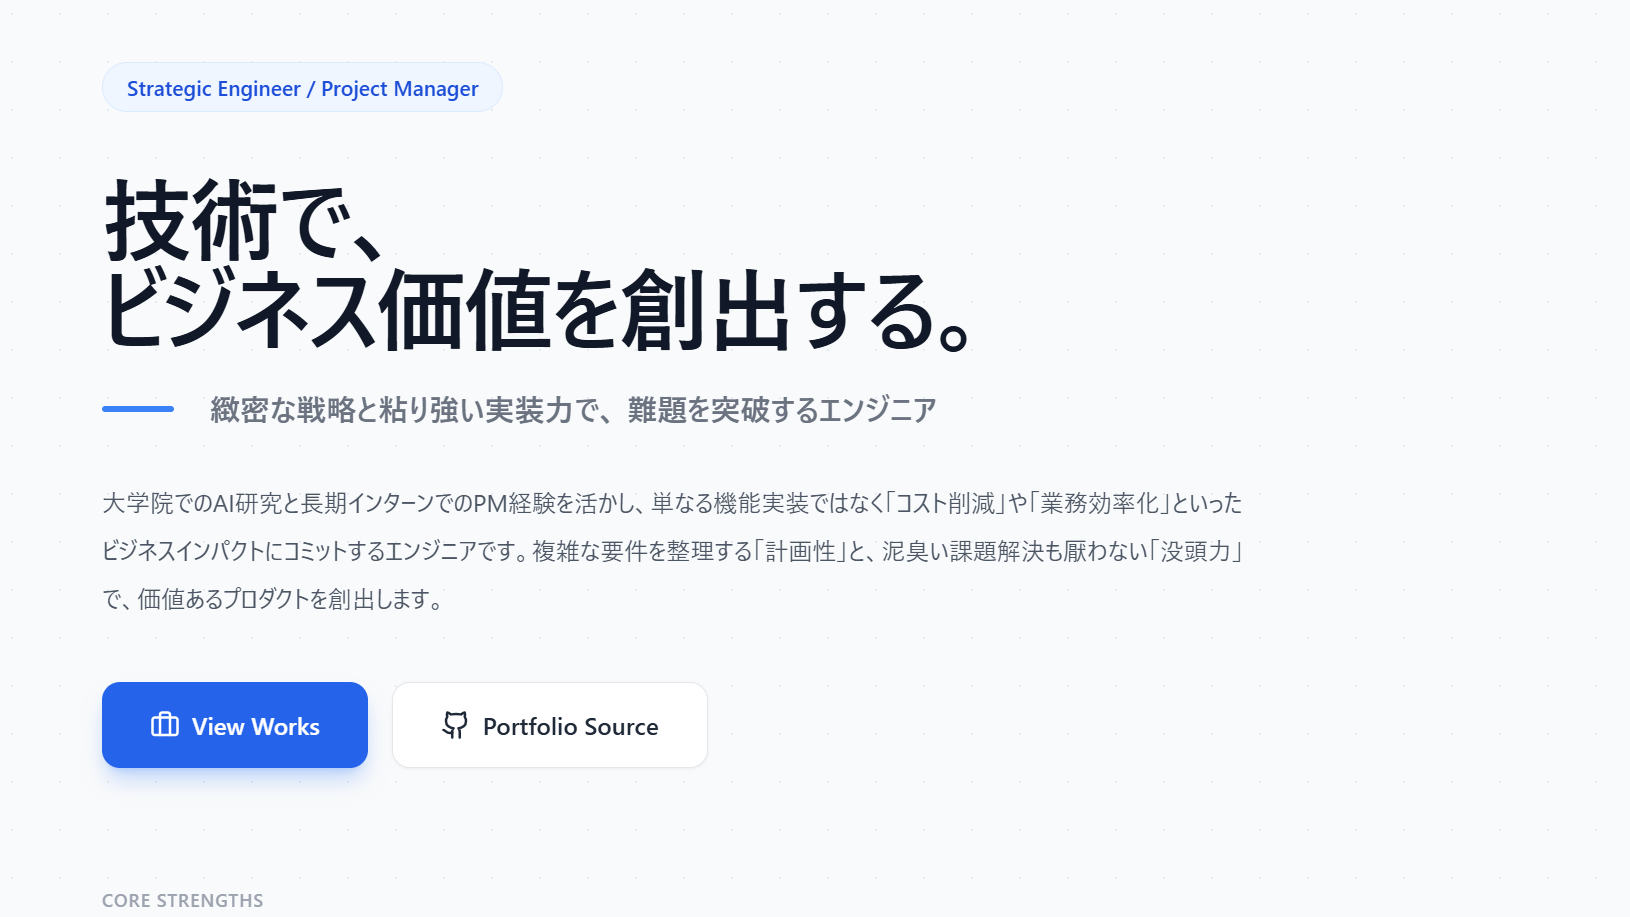
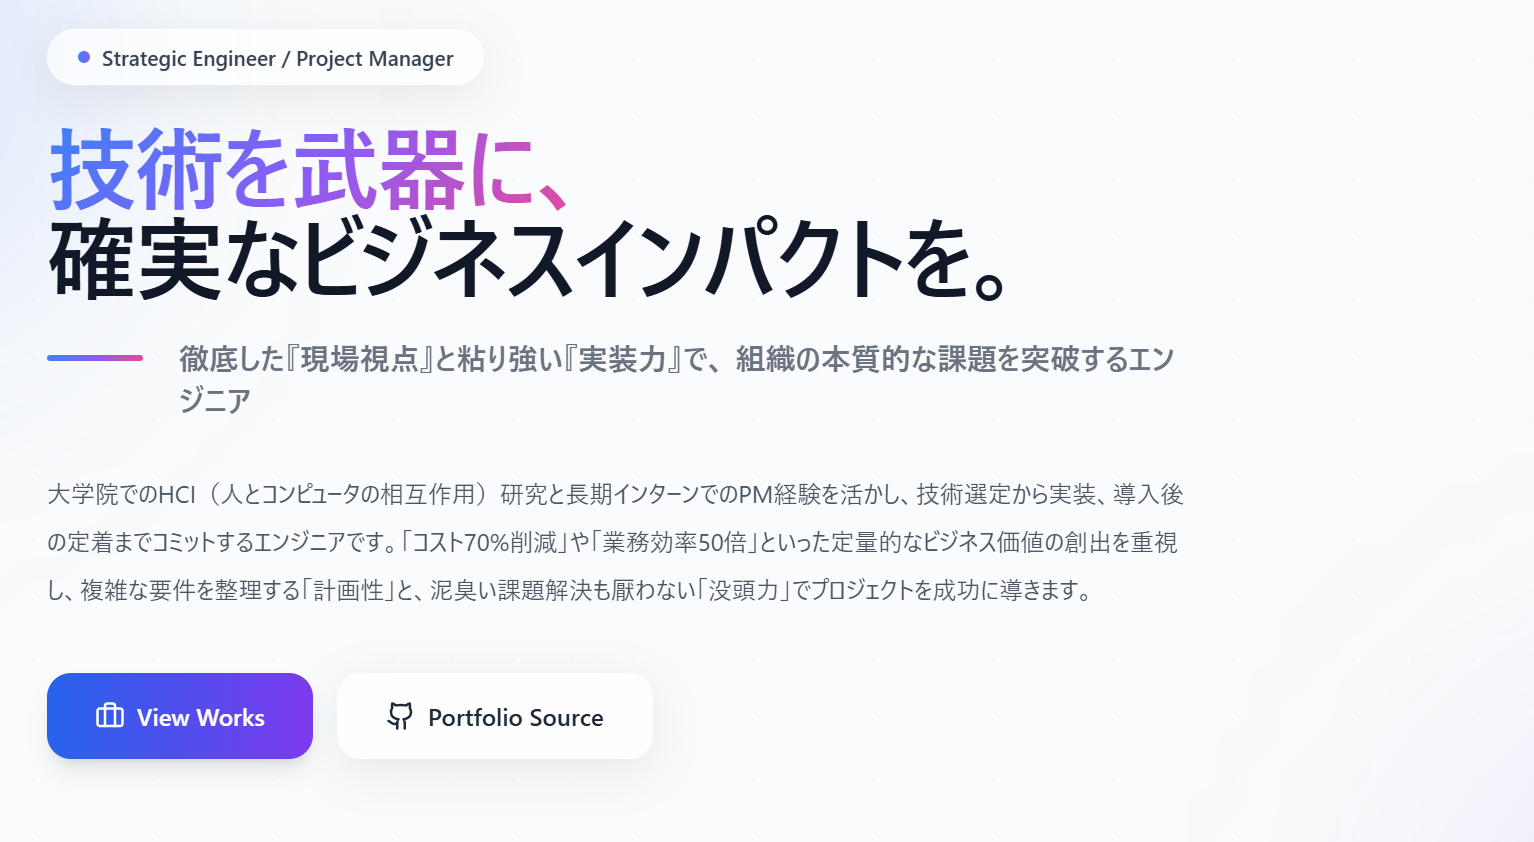
feat: README.mdとindex.htmlの更新、ポートフォリオデータの修正、CSSスタイルの強化
- README.md: ReactとViteのバッジを更新し、自己紹介セクションを追加
- index.html: Google Fontsのプリコネクトとスタイルシートを追加
- portfolio-preview.png: 画像を更新
- App.jsx: ポートフォリオデータの技術名を簡略化し、プロジェクトの説明を改善
- index.css: タイポグラフィのスタイルを強化し、テキスト選択時の可視性を向上

diff --git a/src/App.jsx b/src/App.jsx
@@ -56,8 +56,8 @@ const portfolioData = {
     {
       category: "AI / Backend",
       items: [
-        { name: "Python (FastAPI / Pandas)", level: 5, experience: "4年" },
-        { name: "Dify / RAG構築", level: 4, experience: "1年" },
+        { name: "Python", level: 5, experience: "4年" },
+        { name: "Dify", level: 4, experience: "1年" },
         { name: "Java", level: 5, experience: "4年" },
       ]
     },
@@ -66,7 +66,7 @@ const portfolioData = {
       items: [
         { name: "React / TypeScript", level: 4, experience: "2年" },
         { name: "Unity (C#)", level: 4, experience: "2年" },
-        { name: "Next.js", level: 3, experience: "2年" },
+        { name: "HTML / CSS / JS", level: 4, experience: "3年" },
       ]
     },
     {
@@ -84,56 +84,54 @@ const portfolioData = {
       category: "長期インターンシップ",
       title: "社内向け独自AIエージェント基盤「思考のパートナー」",
       thumbnail: `https://placehold.co/800x500/2563EB/FFFFFF?text=AI+Agent+Platform`,
-      description: "年間2,000万円のコスト課題を内製化で70%削減。RAGとSSOを搭載し、全社員が安全かつ直感的に使える全社共通AI基盤。",
-      tags: ["コスト削減", "RAG", "React", "Dify", "Azure OpenAI", "Entra ID", "UX Design"],
+      description: "年間2,000万円のコスト課題を内製化で70%削減。現場要望に即した検索機能と、Apple HIG準拠の直感的なUIを備えた全社共通AI基盤。",
+      tags: ["コスト削減", "RAG", "React", "Dify", "Perplexity", "Apple HIG", "UX Design"],
       role: "PM & Lead Engineer",
       isPrivate: true,
       repoUrl: "#",
       team: "3名",
       duration: "6ヶ月",
-      focusPoint: "高額な既製品導入を回避し「コスト70%削減」を実現した技術選定と、現場の声を反映した「直感的なUX」の両立。",
-      overview: "「AIを活用したいが、Enterprise版（年間約2,000万円）は高すぎて導入できない」という経営課題と、「既存ツールは使いにくく業務に活かせない」という現場課題を同時に解決するプロジェクト。PM兼リードエンジニアとして、要件定義からアーキテクチャ設計、実装までを主導。API従量課金とOSSを組み合わせた内製化によりコストを劇的に圧縮しつつ、社内ナレッジ検索（RAG）や直感的なUIを実装し、全社的な業務効率化を実現しました。",
+      focusPoint: "高コストなEnterprise版をリプレイスし「コスト70%削減」を達成。さらにモックアップ主導で「現場が本当に欲しい機能」を定義・実装した点。",
+      overview: "「ChatGPT Enterprise版（年間約2,000万円）のランニングコストが重荷になっている」という経営課題に対し、完全内製化によるリプレイスを提案・主導したプロジェクトです。PMとして、まずは「我々にとって理想のAIとは何か？」を可視化するUIモックアップを作成し、経営層・現場双方の合意を形成。技術選定から実装までをリードエンジニアとして牽引し、コストを70%圧縮しつつ、現場の要望（特定サイト検索など）を反映した「社員が本当に使いたくなる」基盤を構築しました。",
       siteUrl: null,
       screenshots: [
         {
           src: './images/ai (1).png',
-          label: 'Welcome Screen：ユーザーがまず初めに訪れる画面。時間帯で変わる挨拶と名前で親しみやすい印象に。'
+          label: 'ホーム画面：時間帯に合わせた挨拶と、次のアクションを直感的に促す「パートナー」としてのUI'
         },
         {
           src: './images/ai (2).png',
-          label: '検索モード：ユーザーが目的に合わせて選択'
+          label: '検索モード選択：現場の強い要望を受けて実装した「特定のサイト指定」検索や、「社内データ」などを柔軟に切り替え'
         },
         {
           src: './images/ai (3).png',
-          label: '提案型チャット画面：次のアクションをAIから提案する'
+          label: '対話画面：単に回答するだけでなく、ユーザーの意図を汲んで次のアクションを能動的に提案する「パートナー」としての振る舞い'
         },
         {
           src: './images/ai (4).png',
-          label: 'ウィザード：初回訪問時はウィザードで案内'
+          label: 'オンボーディング導入：初めてのユーザーでも迷わせない、教育コストを削減するウィザード形式'
         },
         {
           src: './images/ai (5).png',
-          label: 'AIスタイル：ユーザーは表現の好みを選択できる'
+          label: 'スタイル設定：「効率重視」か「思考パートナー」か。業務ニーズに合わせてAIの振る舞いをパーソナライズ'
         },
         {
           src: './images/ai (6).png',
-          label: 'Ready：頼れるパートナーとしての印象を与える'
-        },
-
+          label: 'セットアップ完了：わずか3ステップで設定が完了し、すぐに業務利用を開始できる状態へ'
+        }
       ],
       stack: {
         "Role": "PM & Lead Engineer",
         "Frontend": "React, Vite, CSS Modules",
         "Backend": "Dify (OSS基盤), Python",
         "AI / Search": "Azure OpenAI (GPT-4), Perplexity API",
-        "Auth": "Microsoft Entra ID (SSO認証)",
+        "Design": "Apple Human Interface Guidelines",
         "Key Tech": "RAG (Retrieval-Augmented Generation)"
       },
       points: [
-        "ROIを最大化する技術選定（Frugality）：安易な既製品導入ではなく、API従量課金とオープンソース基盤(Dify)を組み合わせた内製化を選択。機能要件を満たしつつ、年間約1,400万円（70%）のコスト削減見込みを立証し、プロジェクトを承認へ導きました。",
-        "現場視点での課題解決（Customer Obsession）：現場ヒアリングで判明した「特定サイトの調査が面倒」という声に対し、サーチ特化AI（Perplexity）によるドメイン指定検索機能を実装。さらに「出典元の明示」を行うことで、業務利用に耐えうる信頼性を担保しました。",
-        "組織課題へのアプローチ：社長の「バックオフィスの問い合わせ負荷を減らしたい」という意図を汲み、社内規定を回答できるRAG基盤を構築。人事・総務への質問対応をAIに代替させ、組織全体の生産性向上に貢献しました。",
-        "エンタープライズ水準のセキュリティ：全社員が利用するMicrosoftアカウントを用いたシングルサインオン(SSO)を実装。社内規定に準拠したセキュアな認証基盤を構築し、全社導入への障壁を取り除きました。"
+        "ROIを最大化する技術選定：高額なEnterprise版の継続利用ではなく、API従量課金とOSS基盤(Dify)を組み合わせた内製化へ移行。機能要件を維持したまま年間約1,400万円（70%）のコスト削減を実現し、ビジネスインパクト（利益）に直結させました。",
+        "現場の声に基づいた機能開発：営業部門へのアンケートで要望の多かった「特定サイトの情報（競合製品など）を調査したい」という強いニーズを発見。そこで、通常の検索だけでなく、Perplexity APIを活用した「ドメイン指定検索機能」を実装。現場の実業務に即した機能を提供し、利用率を向上させました。",
+        "「人間とAIの理想的な対話」を追求したデザイン（Apple HIG）：ユーザーが信頼して頼りたくなる「パートナー」としてのAIを目指し、長年HCI（人と計算機の対話）を追求してきたAppleのHuman Interface Guidelinesを採用。これを基に独自のルール（DESIGN_RULE.md）を制定することで、心地よい対話体験を実現すると同時に、チーム内でのデザイン意思決定コストを大幅に削減しました。"
       ]
     },
     {

diff --git a/src/index.css b/src/index.css
@@ -341,17 +341,74 @@
    Global Styles
    =================================== */
 
+/* Typography (DSIGN_BASE.md Section 4 準拠) */
 body {
-  font-family: 'Inter', 'Noto Sans JP', -apple-system, BlinkMacSystemFont, sans-serif;
+  font-family: 'Inter', 'Noto Sans JP', -apple-system, BlinkMacSystemFont, 'Segoe UI', Roboto, 'Helvetica Neue', sans-serif;
+  font-size: var(--text-body);
+  /* 16px */
+  font-weight: 400;
+  line-height: 1.6;
+  /* Section 4.1: Body は 1.5-1.6 */
+  letter-spacing: 0;
+  /* Section 4.1: Body は 0 */
+  font-feature-settings: 'kern' 1, 'liga' 1;
+  /* カーニングと合字を有効化 */
   -webkit-font-smoothing: antialiased;
   -moz-osx-font-smoothing: grayscale;
+  text-rendering: optimizeLegibility;
   background: var(--bg-base);
   color: var(--text-main);
 }
 
+/* Heading Typography Enhancements */
+h1,
+h2,
+h3,
+h4,
+h5,
+h6 {
+  font-weight: 700;
+  line-height: 1.2;
+  /* Section 4.2: 見出しは狭く(1.1〜1.3) */
+  letter-spacing: -0.01em;
+  /* Section 4.1: 大きな文字は詰め */
+}
+
+/* Display Text (very large headings) */
+.text-display,
+.text-4xl,
+.text-5xl,
+.text-6xl {
+  font-weight: 900;
+  line-height: 1.1;
+  /* Section 4.1: Display line-height */
+  letter-spacing: -0.02em;
+  /* Section 4.1: Display tracking */
+}
+
+/* Small Text Enhancement */
+.text-sm,
+.text-xs {
+  letter-spacing: 0.02em;
+  /* Section 4.1: 小さな文字は広げる */
+}
+
+/* Text Selection */
 ::selection {
-  background: linear-gradient(135deg, #3B82F6 0%, #8B5CF6 100%);
-  color: white;
+  background: rgba(139, 92, 246, 0.3);
+  /* 半透明のバイオレット背景 */
+  color: #1E293B;
+  /* 濃いグレーでコントラスト確保 */
+  -webkit-text-fill-color: #1E293B;
+  /* グラデーションテキスト対応 */
+}
+
+/* グラデーションテキスト選択時の可視性確保 */
+.gradient-text::selection {
+  background: rgba(139, 92, 246, 0.4);
+  -webkit-background-clip: initial;
+  -webkit-text-fill-color: #1E293B;
+  background-clip: initial;
 }
 
 /* Button Base with Gradient */

diff --git a/index.html b/index.html
@@ -4,6 +4,11 @@
     <meta charset="UTF-8" />
     <link rel="icon" type="image/svg+xml" />
     <meta name="viewport" content="width=device-width, initial-scale=1.0" />
+    
+    <!-- Google Fonts: Inter & Noto Sans JP (DSIGN_BASE.md準拠) -->
+    <link rel="preconnect" href="https://fonts.googleapis.com">
+    <link rel="preconnect" href="https://fonts.gstatic.com" crossorigin>
+    <link href="https://fonts.googleapis.com/css2?family=Inter:opsz,wght@14..32,400;14..32,500;14..32,600;14..32,700;14..32,800;14..32,900&family=Noto+Sans+JP:wght@400;500;600;700;800;900&display=swap" rel="stylesheet">
     <title>藤井琢也 | エンジニア ポートフォリオ</title>
   </head>
   <body>

diff --git a/README.md b/README.md
@@ -1,7 +1,7 @@
 # Portfolio | 藤井 琢也 (Takuya Fujii)
 
-![React](https://img.shields.io/badge/-React-61DAFB?style=flat-square&logo=react&logoColor=black)
-![Vite](https://img.shields.io/badge/-Vite-646CFF?style=flat-square&logo=vite&logoColor=white)
+![React](https://img.shields.io/badge/-React_19-61DAFB?style=flat-square&logo=react&logoColor=black)
+![Vite](https://img.shields.io/badge/-Vite_7-646CFF?style=flat-square&logo=vite&logoColor=white)
 ![Tailwind CSS](https://img.shields.io/badge/-Tailwind_CSS-38B2AC?style=flat-square&logo=tailwind-css&logoColor=white)
 ![Status](https://img.shields.io/badge/Status-Active-success?style=flat-square)
 
@@ -22,40 +22,112 @@
 
 <br />
 
+---
+
+## ✨ 30秒でわかる私の強み
+
+私は「技術」と「ビジネス成果」を結びつけることを最も大切にしています。
+
+| 🎯 成果 | 📝 概要 |
+|:---|:---|
+| **コスト70%削減** | 高額なEnterprise版AIツールを自社開発のAIエージェント基盤でリプレイス |
+| **業務効率50倍向上** | 画像処理プラットフォームの開発により、1件10分の作業を12秒に短縮 |
+| **月間160時間の工数削減** | 上記の効率化により、チームメンバーの貴重な時間を創出 |
+
+> 💡 **単に「作る」だけでなく、「なぜ作るのか」「誰のために作るのか」を徹底的に考え、現場が本当に必要とする機能を定義・実装することを心がけています。**
+
 <br />
 
+---
+
+## 🎨 デザインへのこだわり — プロ品質のUI/UX設計
+
+私はまず、**Apple Human Interface Guidelines（HIG）** の設計哲学をベースに、あらゆるプロジェクトで再利用可能な汎用デザイン基盤 **[Universal Design Base Framework](DSIGN_BASE.md)** を策定しました。
+
+そして、AIエージェントプロジェクトにおいてこのデザインベースをさらに応用し、プロジェクト専用のデザインルールを作成。一貫性のある高品質なUIを構築しました。
+
+### なぜデザインルールを作成したのか？
+
+チーム開発において「デザインの属人化」は大きな課題です。私は以下の問題を解決するため、体系的なデザイン基盤を整備しました：
+
+- ❌ 担当者によってUIのトーンがバラバラ
+- ❌ 「なんとなく」の感覚的なピクセル調整
+- ❌ ダークモード対応時に色の定義が破綻
+
+### 策定したデザインルールの特徴
+
+| 原則 | 内容 | ユーザーへのメリット |
+|:---|:---|:---|
+| **8pt グリッドシステム** | すべての余白・サイズを8の倍数で統一 | 視覚的な心地よさと整理された印象 |
+| **セマンティックカラー** | 「青=#3B82F6」ではなく「primary=ブランドカラー」と役割で定義 | ダークモードでも自然な配色 |
+| **WCAG 2.1 AA準拠** | 文字と背景のコントラスト比を保証 | 誰でも読みやすいテキスト |
+| **アニメーションの原則** | ユーザー操作から100ms以内にフィードバック開始 | 「動作が軽い」と感じる快適な操作感 |
+| **タップ領域の確保** | ボタン等のタッチ領域を最低44x44px保証 | スマホでもストレスなく操作可能 |
+
+> 📄 **詳細は [DSIGN_BASE.md](DSIGN_BASE.md) をご覧ください。**
+>
+> このドキュメントは、今後のプロジェクトでも再利用できる「デザインの教科書」として活用できます。
+
+<br />
+
+---
+
 ## 📖 概要 (Overview)
+
 私のエンジニアとしてのスキルセット、経歴、そして「ビジネスインパクト」にこだわったプロジェクト実績を紹介するシングルページアプリケーション（SPA）です。
 
 単なる自己紹介サイトではなく、**読み手（採用担当者様）の体験**を最優先に設計しました。情報のスキャナビリティ（読みやすさ）と、アプリとしての快適な操作性を両立させています。
+
+<br />
+
+---
 
 ## 🛠 技術スタック (Tech Stack)
 
 | Category | Technology | Why I chose it |
 | :--- | :--- | :--- |
-| **Frontend** | React 18 | コンポーネント指向による再利用性と状態管理の効率化のため |
-| **Build Tool** | Vite | 高速なHMR（Hot Module Replacement）による開発体験の向上と、ビルド最適化のため |
+| **Frontend** | React 19 | コンポーネント指向による再利用性と状態管理の効率化のため |
+| **Build Tool** | Vite 7 | 高速なHMR（Hot Module Replacement）による開発体験の向上と、ビルド最適化のため |
 | **Styling** | Tailwind CSS | クラス名管理のコスト削減と、デザインシステム（Apple風UI）の迅速な構築のため |
 | **Icons** | Lucide React | 軽量で統一感のあるSVGアイコンセットを採用し、視認性を確保 |
 | **Deploy** | GitHub Pages | CI/CDパイプライン（GitHub Actions）との親和性を考慮 |
 
+<br />
+
+---
+
 ## ⚡ エンジニアリングのこだわり (Key Engineering Highlights)
+
+<details>
+<summary><strong>🔍 クリックして技術的な詳細を展開</strong></summary>
+
+<br />
 
 コードを見る際は、特に以下の実装ポイントにご注目ください。
 
 ### 1. パフォーマンス最適化 (Performance)
+
 ユーザー体験を損なわないよう、徹底的な軽量化を行っています。
-* **Intersection Observer API:** スクロール連動アニメーションにおいて、監視ロジックを最適化し、要素が表示された瞬間に監視を解除（`disconnect`）することでメモリリークと不要な再レンダリングを防止しています。
-* **`will-change` プロパティ:** CSSハードウェアアクセラレーションを適切に有効化し、アニメーション時のGPU負荷を最適化しました。
+
+- **Intersection Observer API:** スクロール連動アニメーションにおいて、監視ロジックを最適化し、要素が表示された瞬間に監視を解除（`disconnect`）することでメモリリークと不要な再レンダリングを防止しています。
+- **`will-change` プロパティ:** CSSハードウェアアクセラレーションを適切に有効化し、アニメーション時のGPU負荷を最適化しました。
 
 ### 2. コンポーネント設計とUI/UX (Architecture & UX)
-* **Apple Human Interface Guidelines** を意識した、清潔感と信頼感のあるデザインシステムを構築。
-* **Atomic Design** の思想を取り入れた再利用可能なコンポーネント設計（Card, Badge, SectionHeader等）。
-* 実績画像の閲覧体験を向上させるため、**カスタムカルーセル（スライドショー）機能**をモーダル内に実装。
+
+- **Apple Human Interface Guidelines** を意識した、清潔感と信頼感のあるデザインシステムを構築。
+- **Atomic Design** の思想を取り入れた再利用可能なコンポーネント設計（Card, Badge, SectionHeader等）。
+- 実績画像の閲覧体験を向上させるため、**カスタムカルーセル（スライドショー）機能**をモーダル内に実装。
 
 ### 3. アクセシビリティ (a11y)
-* セマンティックなHTML構造（`<main>`, `<section>`, `aria-label`）を意識。
-* 十分なコントラスト比の確保と、キーボード操作への配慮。
+
+- セマンティックなHTML構造（`<main>`, `<section>`, `aria-label`）を意識。
+- 十分なコントラスト比の確保と、キーボード操作への配慮。
+
+</details>
+
+<br />
+
+---
 
 ## 📂 ディレクトリ構成 (Project Structure)
 
@@ -69,10 +141,16 @@ root
 │   ├── App.jsx          # メインロジックとコンポーネント構成
 │   ├── App.css          # グローバルスタイル
 │   ├── index.css        # Tailwindディレクティブとカスタムユーティリティ
-│   └── main.jsx         # エントリーポイント
+│   ├── main.jsx         # エントリーポイント
+│   └── assets/          # 静的アセット
+├── DSIGN_BASE.md        # デザイン基盤ドキュメント
 ├── vite.config.js       # Vite設定
 └── tailwind.config.js   # デザインシステム設定
-````
+```
+
+<br />
+
+---
 
 ## 🚀 ローカルでの実行方法 (Getting Started)
 
@@ -80,7 +158,7 @@ root
 
 ```bash
 # 1. Clone the repository
-git clone [https://github.com/takutaku14/portforio-app.git](https://github.com/takutaku14/portforio-app.git)
+git clone https://github.com/takutaku14/portforio-app.git
 
 # 2. Navigate to the directory
 cd portforio-app
@@ -92,14 +170,17 @@ npm install
 npm run dev
 ```
 
+<br />
+
+---
+
 ## 📬 Contact
 
 もし私の経歴や技術に興味を持っていただけましたら、ぜひご連絡ください。
 
-  * **GitHub:** [takutaku14](https://www.google.com/search?q=https://github.com/takutaku14)
-  * **Portfolio:** [takutaku14.github.io/portforio-app](https://takutaku14.github.io/portforio-app/)
+- **GitHub:** [takutaku14](https://github.com/takutaku14)
+- **Portfolio:** [takutaku14.github.io/portforio-app](https://takutaku14.github.io/portforio-app/)
 
------
+---
 
 © 2025 Takuya Fujii. All Rights Reserved.
-
